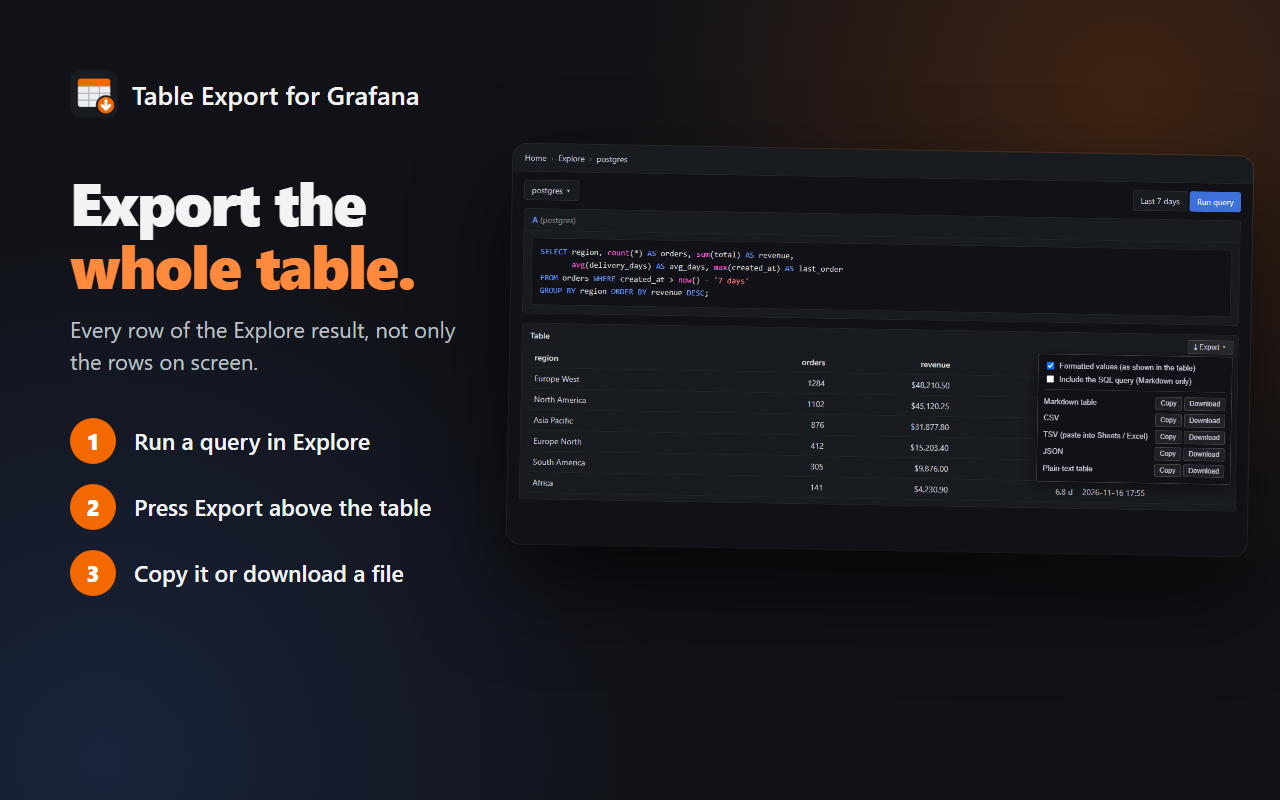
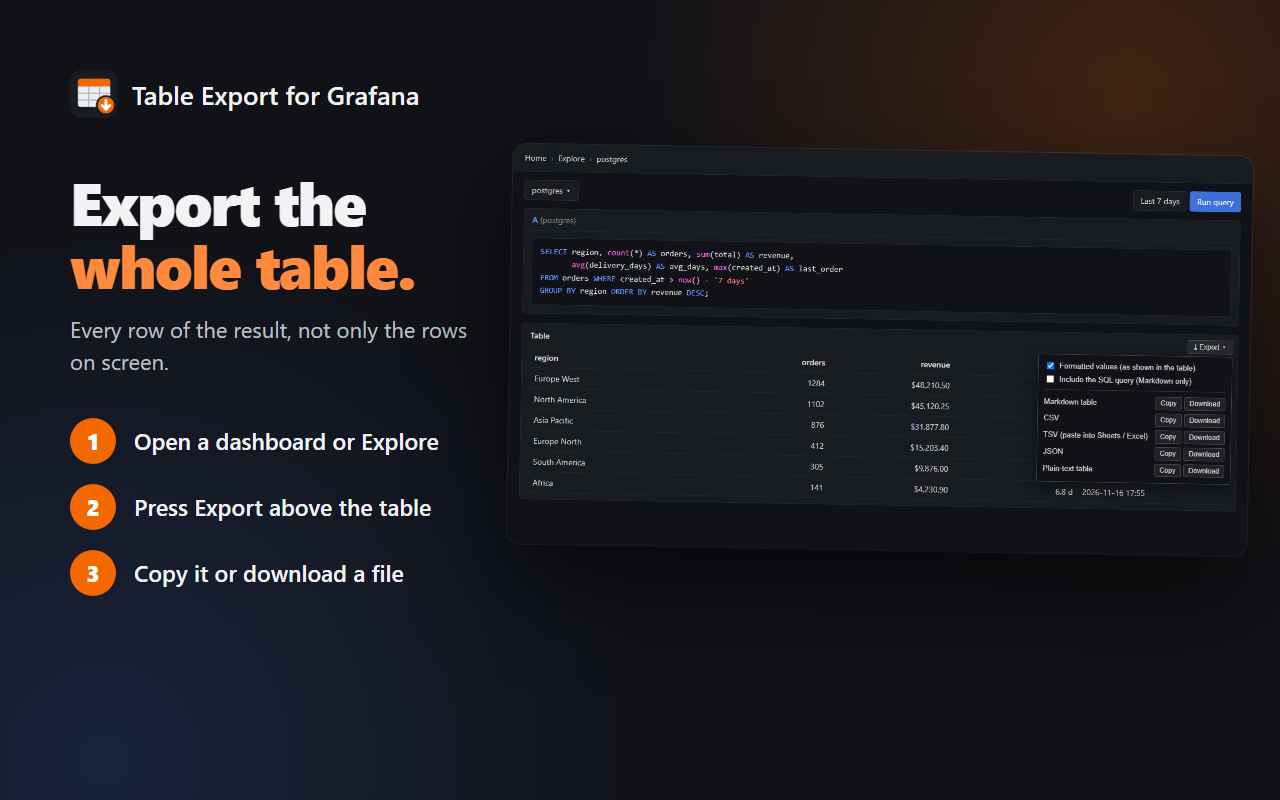
docs: say that the extension serves a dashboard too
Every text named Explore alone: the README, the privacy policy, the
store listing, the first store image and the traps of `AGENTS.md`.

`AGENTS.md` gains three traps that cost time to find: the panel with no
title keeps its section and draws a hover header, the hidden grid of
react-data-grid, and the reason the button hides with a style rule and
never with a listener.

The demo page of the store image now carries the Explore test id, so
the page scripts keep its button visible, as they do in Explore.

Issue #6

Changed region(s): [[0.0938, 0.5312, 0.3438, 0.5625], [0.1875, 0.4062, 0.375, 0.4375], [0.0625, 0.4375, 0.1875, 0.4688]]

diff --git a/src/page/grafanaFrames.js b/src/page/grafanaFrames.js
@@ -14,7 +14,7 @@
  */
 
 /**
- * The result of one query, as the Explore table holds it.
+ * The result of one query, as the table of Explore or of a dashboard panel holds it.
  * @typedef {object} GrafanaDataFrame
  * @property {GrafanaField[]} fields
  * @property {string} [refId]
@@ -28,7 +28,7 @@ const GrafanaTableExportFrames = (() => {
 
   // Grafana 12.3 and earlier: Explore rendered its own table, with this label on it.
   const LABELLED_TABLE_SELECTOR = '[aria-label="Explore Table"]';
-  // Grafana 12.4 and later: Explore renders the table panel, which draws a react-data-grid.
+  // Grafana 12.4 and later: Explore and a dashboard render the table panel, with a react-data-grid.
   const GRID_SELECTOR = '[role="grid"]';
   const TABLE_SELECTOR = `${LABELLED_TABLE_SELECTOR}, ${GRID_SELECTOR}`;
   // Explore and a dashboard draw the same table panel. Explore shows the Export button at all times,
@@ -49,6 +49,7 @@ const GrafanaTableExportFrames = (() => {
   // `data-testid header-container`.
   const TITLE_BAR_SELECTOR = '[data-testid$="header-container"]';
   // The title that Explore gives the panel: "Table", or "Table - <name>" with more than one frame.
+  // A dashboard panel carries free text, which the test id of the title bar finds instead.
   const TITLE_PATTERN = /^Table\b/;
 
   /**

diff --git a/src/page/pageEntry.js b/src/page/pageEntry.js
@@ -1,5 +1,5 @@
 // Page script (classic, MAIN world): the last of the page scripts, so the others exist when it runs.
-// Wiring only: watch the single-page app and give each Explore table an Export button.
+// Wiring only: watch the single-page app and give each result table an Export button.
 
 (() => {
   // The service worker can inject the page scripts into a tab that already has them. Start once only.
@@ -13,7 +13,8 @@
     tables.forEach((table) => GrafanaTableExportMenu.attachExportButton(table, tables));
   }
 
-  // Explore is a single-page app: a query, a page change or a split view renders a new table.
+  // Grafana is a single-page app: a query, a page change, a split view or a dashboard refresh
+  // renders a new table.
   let pending = false;
   new MutationObserver(() => {
     if (pending) return;

diff --git a/store/graphics/01-exportTable.html b/store/graphics/01-exportTable.html
@@ -45,9 +45,9 @@
     <div class="left">
       <div class="brand"><img src="../../icons/icon128.png" alt="" />Table Export for Grafana</div>
       <h1>Export the <span class="accent">whole table.</span></h1>
-      <p class="sub">Every row of the Explore result, not only the rows on screen.</p>
+      <p class="sub">Every row of the result, not only the rows on screen.</p>
       <div class="steps">
-        <div class="step"><span class="num">1</span>Run a query in Explore</div>
+        <div class="step"><span class="num">1</span>Open a dashboard or Explore</div>
         <div class="step"><span class="num">2</span>Press Export above the table</div>
         <div class="step"><span class="num">3</span>Copy it or download a file</div>
       </div>

diff --git a/store/graphics/demo/explore.html b/store/graphics/demo/explore.html
@@ -120,7 +120,8 @@
       }
     </style>
   </head>
-  <body>
+  <!-- The Explore test id: the page scripts read it to keep the Export button always visible. -->
+  <body data-testid="data-testid Explore">
     <div class="topbar">
       <div class="crumbs"><span>Home</span><span>Explore</span><span>postgres</span></div>
     </div>

diff --git a/store/listing.md b/store/listing.md
@@ -35,18 +35,18 @@ The name puts "Grafana" after "for", as "Image Viewer for GitHub" does with "Git
 
 ### Summary (comes from the zip: the `description` in `manifest.json`, at most 132 characters)
 
-Export the full result table of Grafana Explore as Markdown, CSV, TSV, JSON or plain text. Copy it or download a file.
+Export a full Grafana table, in Explore or a dashboard, as Markdown, CSV, TSV, JSON or plain text. Copy it or download a file.
 
 ### Description (paste this whole block)
 
-Export the whole result of a Grafana Explore query in one click.
+Export a whole Grafana table in one click, in Explore and in a dashboard.
 
-Grafana Explore shows a query result as a table, but it renders only the rows on screen. To share a result in a pull request, a doc or a chat, you end up with screenshots or with hand-copied rows. Table Export for Grafana adds an Export button above the table. It reads the full result, every row, and gives it to you in the format that you need.
+Grafana shows a result as a table, but it renders only the rows on screen. To share a table in a pull request, a doc or a chat, you end up with screenshots or with hand-copied rows. Table Export for Grafana adds an Export button above the table, in Explore and on each table panel of a dashboard. It reads the full result, every row, and gives it to you in the format that you need.
 
 HOW IT WORKS
 
-1. Run a query in Grafana Explore.
-2. Press Export at the top right of the table.
+1. Open a dashboard with a table panel, or run a query in Grafana Explore.
+2. Press Export at the top right of the table. In a dashboard it shows while the mouse is over the panel.
 3. Pick a format, then Copy or Download.
 
 FORMATS
@@ -59,8 +59,8 @@ FORMATS
 FEATURES
 • The full result, not only the visible rows.
 • Formatted values, as the table shows them with units and dates, or the raw values.
-• Works with every data source that Explore shows as a table.
-• Works with Grafana's fast page changes, new queries and the split view.
+• Works in Explore and on the table panels of a dashboard, with every data source.
+• Works with Grafana's fast page changes, new queries, the split view and a dashboard refresh.
 
 TURN IT ON FOR YOUR GRAFANA
 Grafana Cloud (grafana.net) works right after the install. For a self-hosted Grafana, click the extension icon on your Grafana page and press "Turn on". Chrome asks you once to allow that one site. The extension runs on no other site.
@@ -110,7 +110,7 @@ English
 
 ### Single purpose description
 
-Table Export for Grafana exports the result table of a Grafana Explore query as Markdown, CSV, TSV, JSON or plain text, to the clipboard or to a file.
+Table Export for Grafana exports a result table of Grafana, in Explore or in a dashboard, as Markdown, CSV, TSV, JSON or plain text, to the clipboard or to a file.
 
 ### Permission justifications
 
@@ -124,7 +124,7 @@ The extension runs its export scripts on the Grafana sites that the user turned 
 A self-hosted Grafana can live at any address, so the extension cannot list the sites in advance. The extension never asks for all sites. It asks for one site only, when the user presses "Turn on for <site>" in the popup on that site, and Chrome shows its own prompt. The user can turn a site off in the popup or in the Chrome settings.
 
 **Host permission for the content script on `https://*.grafana.net/*`**
-Grafana Cloud uses this domain. The content script runs there from the install, so Grafana Cloud users need no extra step. It only adds the Export button above the result tables of Explore, and reads a table only when the user presses Copy or Download.
+Grafana Cloud uses this domain. The content script runs there from the install, so Grafana Cloud users need no extra step. It only adds the Export button above the result tables of Explore and of a dashboard, and reads a table only when the user presses Copy or Download.
 
 ### Remote code
 

diff --git a/AGENTS.md b/AGENTS.md
@@ -1,6 +1,6 @@
 # Table Export for Grafana
 
-A Manifest V3 Chrome extension. It adds an Export button to each result table in Grafana Explore. The button exports the full result as Markdown, CSV, TSV, JSON or a plain-text table, to the clipboard or to a file.
+A Manifest V3 Chrome extension. It adds an Export button to each result table of Grafana, in Explore and on the table panels of a dashboard. The button exports the full result as Markdown, CSV, TSV, JSON or a plain-text table, to the clipboard or to a file.
 Plain JavaScript with JSDoc types, no build step: the repository folder is the folder that Chrome loads. The code is the source of truth for every fact. `README.md` is for people.
 
 ## Docs
@@ -66,9 +66,11 @@ How a site gets the page scripts:
 ## Traps
 
 - **A page script runs twice when the service worker injects it into a tab that already has it.** Each file declares a global constant, so the second copy throws. The service worker checks for `GrafanaTableExportFormats` before it injects.
-- **The Explore table section clips its children** (`overflow: hidden`). The menu lives on `document.body` with a fixed position, and closes on a scroll or a resize.
+- **The section of a table clips its children** (`overflow: hidden`). The menu lives on `document.body` with a fixed position, and closes on a scroll or a resize.
 - **The section of the table has no fixed test id.** Grafana 12.3 and earlier use `section-wrapper-Table`. Grafana 12.4 and later use `data-testid Panel header`. `titleBarOf` finds the title by its text first, then by the `header-container` test id.
-- **Grafana 12.4 draws the Explore table with react-data-grid, and a hidden second `role="grid"` beside it.** The hidden grid measures the scrollbar. It carries no React fiber, so `findTables` finds no frame and drops it.
+- **Grafana 12.4 draws the table with react-data-grid, and a hidden second `role="grid"` beside it.** The hidden grid measures the scrollbar. It carries no React fiber, so `findTables` finds no frame and drops it. Explore and a dashboard draw the same table.
+- **A dashboard panel with no title keeps its section,** with an empty name (`data-testid Panel header `), and draws `data-testid hover-header-container` in place of the title bar. `TITLE_BAR_SELECTOR` ends with `header-container`, so it matches both.
+- **The Export button of a dashboard panel hides with one style rule, never with a listener.** A mouse that does not move sends no event, so a panel that Grafana renders again would hide the button under the pointer. `focusout` also runs before the focus lands, so a listener would hide the button that the Tab key is about to reach.
 - **Two result tables in one section share one Export button.** `tablesOfOtherSections` ignores the other tables of the same section, so the walk up does not stop at them. A walk that stops at once finds no button, and each scan then adds one more.
 - **A scan can run before Grafana renders the "Table" title.** That scan puts the button in a fallback host. `buttonsAround` looks at every level of the section, so a later scan moves the button and adds no second one.
 - **A split view has two tables under one parent.** Each walk up from a table stops below a level that holds another table, so one pane never takes or deletes the button of the other.

diff --git a/docs/plans/dashboard-export-button.md b/docs/plans/dashboard-export-button.md
@@ -77,17 +77,31 @@ Each one below states something that stops being true:
 - `README.md` first line, the steps, the troubleshooting note
 - `test/grafanaFrames.test.js`, the test that asserts a dashboard gets no button
 
-## Gaps
+## Gaps, answered
 
-1. **Does the panel inspector of Explore sit outside the Explore container?** The issue says Grafana
-   renders the drawer into `.main-view`. Confirm it, or the inspector table gets a button.
-2. **Is the dashboard menu button inside the title bar element that `titleBarOf` returns?** If it sits
-   in another element, `menuButtonOf` must look in the section, not in the host.
-3. **Does a Grafana dashboard panel section always match `[data-testid^="data-testid Panel header"]`,
-   also with no title?** With no title the test id can hold an empty name.
-4. **Does `section.matches(':hover')` hold while the pointer is over the fixed menu on `document.body`?**
-   The menu sits outside the section, so the hover can end when the mouse moves to the menu. The
-   "menu is open" state must cover it.
+Measured on `play.grafana.org`, Grafana 13.4, dashboard `/d/OhR1ID6Mk/table` and Explore.
+
+1. **The panel inspector sits outside every section.** Its grid is in
+   `[data-testid="data-testid Panel inspector Data content"]`, with a data frame and no panel section
+   above it. The section test keeps it out, in a dashboard and in Explore.
+2. **The menu button sits inside the title bar.** `[data-testid^="data-testid Panel menu"]`, 20 by 24
+   pixels, inside `[data-testid="data-testid header-container"]`, 8 pixels from the right edge of the
+   section. `getComputedStyle` reports `visibility: hidden` and `opacity: 0` at rest.
+3. **A panel with no title keeps the section, with an empty name:** `data-testid Panel header `. Its
+   header is `[data-testid="data-testid hover-header-container"]`, which `TITLE_BAR_SELECTOR` already
+   matches, because that selector ends with `header-container`.
+4. **Explore has no menu button.** `menuButtonOf` returns `null` there, so `rightOffset` gives 8 and
+   the button keeps its place of today.
+5. **The hover ends when the pointer reaches the menu**, because the menu sits on `document.body`.
+   The "menu is open" state covers it.
+6. **The Explore table of Grafana 12.4 and later sits in a panel section too**
+   (`data-testid Panel header Table`), inside the Explore container.
+
+## Open points that the implementation must answer
+
+- **The listeners follow the button.** `attachExportButton` can move a kept button to another host.
+  The listeners must follow the section of the table, and must not pile up on each scan.
+- **The scan must stay fast.** The issue asks for one scan under 10 ms with ten table panels.
 
 ## Steps
 

diff --git a/README.md b/README.md
@@ -1,6 +1,6 @@
 # Table Export for Grafana
 
-A Chrome extension for Grafana Explore. It adds an **Export** button above each result table. The button exports the full result, not only the rows on screen, as Markdown, CSV, TSV, JSON or a plain-text table. Copy it, or download a file. Nothing leaves your browser.
+A Chrome extension for Grafana. It adds an **Export** button above each result table, in Explore and in a dashboard. The button exports the full result, not only the rows on screen, as Markdown, CSV, TSV, JSON or a plain-text table. Copy it, or download a file. Nothing leaves your browser.
 
 ![the icon: a table with an orange header row and a download arrow](icons/icon128.png)
 
@@ -30,8 +30,8 @@ The Export button shows at once, with no reload. To turn it off, open the popup 
 
 ## How to use it
 
-1. Run a query in Grafana Explore.
-2. Press **⤓ Export ▾** at the top right of the table section.
+1. Open a dashboard with a table panel, or run a query in Grafana Explore.
+2. Press **⤓ Export ▾** at the top right of the table. In a dashboard it shows while the mouse is over the panel.
 3. Pick a format, then press **Copy** or **Download**.
 
 | Format           | Use                                                                                    |
@@ -52,7 +52,7 @@ The menu has two options. The extension remembers them for each Grafana site.
 **The Export button does not show.**
 Open the popup on that tab. If it says "Off", turn it on. If it says "On", run the query again, or reload the tab.
 
-Grafana 12.4 changed the result table of Explore. The extension works with that new table, and with the table of Grafana 12.3 and earlier. The last check ran on Grafana 13.4. A newer Grafana can change the table again: open an issue with your Grafana version.
+Grafana 12.4 changed the result table of Explore, and brought the same table to a dashboard. The extension works with that new table, and with the table of Grafana 12.3 and earlier. A dashboard needs Grafana 12.4 or later. The last check ran on Grafana 13.4. A newer Grafana can change the table again: open an issue with your Grafana version.
 
 **The export says "could not read the table data".**
 A Grafana update can change how Grafana keeps the result. Open an issue with your Grafana version (in **Help**, the `?` icon).

diff --git a/PRIVACY.md b/PRIVACY.md
@@ -1,8 +1,8 @@
 # Table Export for Grafana privacy policy
 
-Last updated: 17 November 2026.
+Last updated: 25 November 2026.
 
-Table Export for Grafana is a Chrome extension that exports the result tables of Grafana Explore as Markdown, CSV, TSV, JSON or plain text.
+Table Export for Grafana is a Chrome extension that exports the result tables of Grafana, in Explore and in a dashboard, as Markdown, CSV, TSV, JSON or plain text.
 
 ## What the extension handles
 
